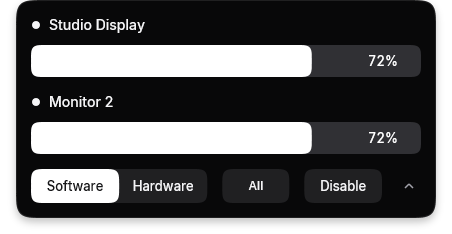
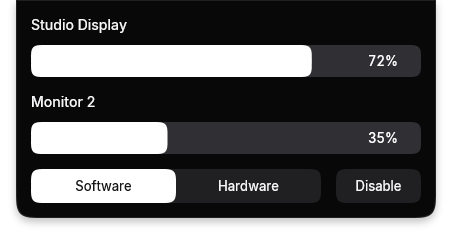
docs: update the panel preview controls and independent brightness behavior

diff --git a/docs/UI.md b/docs/UI.md
@@ -1,26 +1,27 @@
 # Native dynamic island
 
-The replacement UI uses WinAPI + Direct2D/DirectWrite + DirectComposition. It keeps `PopupState` and `PopupActions` as the boundary to the existing brightness controller. No physical-monitor API is called by the renderer, layout, animation, or pacing modules.
+The replacement UI uses WinAPI + Direct2D/DirectWrite + DirectComposition. It keeps `PopupState` and `PopupActions` as the boundary to the existing brightness controller. Each monitor has its own target. No physical-monitor API is called by the renderer, layout, animation, dismissal, or pacing modules.
 
 ## Modules and integration
 
 | Module | Responsibility |
 | --- | --- |
-| `ui/PopupModel.h` | Controller snapshot and callbacks; one shared target for the selected monitor group |
-| `ui/PopupView.*` | HWND, input/capture, stable monitor IDs, compact/expanded/closing states, throttle, DPI/top anchoring, graphics recovery |
+| `ui/PopupModel.h` | Per-monitor controller snapshot and callbacks with stable display IDs |
+| `ui/PopupView.*` | HWND, input/capture, stable monitor IDs, opening/visible/closing states, throttle, DPI/top anchoring, graphics recovery |
 | `ui/island/Layout.h` | DIP layout, five-row viewport, scroll bounds, hit rectangles, narrow-screen footer |
-| `ui/island/Geometry.h` | Superellipse corner sampling and matching contour hit test |
+| `ui/island/Geometry.h` | Superellipse lower corners, square top corners, and matching contour hit test |
 | `ui/island/Spring.h` | Analytical spring position/velocity integration and interruptible retargeting |
 | `ui/island/Fonts.*` | Private DirectWrite collection backed by immutable embedded resources |
 | `ui/island/Renderer.*` | D3D/DXGI buffers, D2D drawing/cached geometry/text/shadow, DComp alpha composition |
 | `ui/island/FrameClock.*` | Requested DXGI/DWM pacing; no controller or renderer state shared with its thread |
+| `ui/island/Dismissal.h` | Monotonic 3.5-second inactivity deadline |
 | `ui/island/Preferences.*` | Separate validated UI preference registry values |
 
-`App::UpdatePopupState` supplies snapshots. Existing callbacks apply brightness, selection, enabled state, and mode. The only additional callbacks report UI graphics failures and request the existing tray context menu. `App::Run` waits on messages and the optional frame-ready event through `MsgWaitForMultipleObjectsEx`; `FrameWaitHandle()` returns no handle while hidden or settled. Do not replace this with a permanent timer.
+`App::SyncPopup` supplies monitor snapshots with individual brightness values. Callbacks apply a target by stable display ID, enabled state, and mode; other callbacks report UI failures, show the tray menu, and identify the tray icon hit area. There is no group-selection callback. `App::Run` waits on messages and the optional frame-ready event through `MsgWaitForMultipleObjectsEx`; `FrameWaitHandle()` returns no handle while hidden or settled. Do not replace this with a permanent timer.
 
 The `.vcxproj` includes all modules and font resources. Link dependencies are declared in the native source files. The application no longer starts GDI+. COM initialization belongs to the renderer on the UI thread. Copy `Inter-LICENSE.txt` alongside the executable when distributing; the project does this after building.
 
-The HWND uses `WS_POPUP`, `WS_EX_TOPMOST`, `WS_EX_TOOLWINDOW`, `WS_EX_NOACTIVATE`, and `WS_EX_NOREDIRECTIONBITMAP`. The transparent area comes from a premultiplied BGRA composition surface, not `SetWindowRgn`. The pacing thread is stopped and joined before the renderer releases its frame-latency handle or swap chain.
+The HWND uses `WS_POPUP`, `WS_EX_TOPMOST`, `WS_EX_TOOLWINDOW`, `WS_EX_NOACTIVATE`, and `WS_EX_NOREDIRECTIONBITMAP`. The transparent area comes from a premultiplied BGRA composition surface, not `SetWindowRgn`. The pacing thread is stopped and joined before the renderer releases its frame-latency handle or swap chain. Raw mouse input is registered only while the panel is open; it observes button presses without `RIDEV_NOLEGACY`, hooks, focus changes, or input suppression. Registration is removed when closing.
 
 ## Dimensions and typography
 
@@ -28,9 +29,8 @@ All values below are DIP. The shell's top is exactly `rcMonitor.top`; the 16-DIP
 
 | Metric | Value |
 | --- | --- |
-| Compact shell | 344 × 64 |
-| Expanded shell width | 420, reduced to fit available screen width |
-| Expanded height | 64 + 77 × visible rows; two rows = 218, five = 449 |
+| Panel width | 420, reduced to fit available screen width |
+| Panel height | 64 + 77 × visible rows; two rows = 218, five = 449 |
 | Visible rows | At most 5; smaller available height further limits the viewport |
 | Outer padding | 15 on all sides |
 | Monitor label height | 20 |
@@ -38,14 +38,13 @@ All values below are DIP. The shell's top is exactly `rcMonitor.top`; the 16-DIP
 | Slider height | 32; value inset 10 horizontally / 8 vertically |
 | Between monitor rows | 15 |
 | Footer buttons | 34 high; 13-DIP text, 7-DIP vertical padding; width budget includes 15-DIP horizontal padding |
-| Narrow footer | Below 400 DIP available width: mode selector and actions on separate rows, 15 between rows |
-| Compact rail | 6 high with enlarged pointer hit area |
+| Narrow footer | Below 350 DIP available width: mode selector and actions on separate rows, 15 between rows |
 
-The expanded monitor names use Inter Medium 14, hardware status uses Inter Regular 12 with +0.1 DIP character spacing, buttons/percentages use Inter Medium 13, and the compact percentage uses Inter SemiBold 20. Text stays on floating-point DIP coordinates. Tabular figure typography is enabled. DirectWrite grayscale antialiasing is used for alpha surfaces: ClearType subpixel color fringes would not compose correctly over an unknown background.
+Monitor names use Inter Medium 14, hardware status uses Inter Regular 12 with +0.1 DIP character spacing, and buttons/percentages use Inter Medium 13. Text stays on floating-point DIP coordinates. Tabular figure typography is enabled. DirectWrite grayscale antialiasing is used for alpha surfaces: ClearType subpixel color fringes would not compose correctly over an unknown background.
 
 Fonts are embedded Inter 4.1 with a Segoe UI fallback. SF Pro is not included because [Apple's published font license](https://developer.apple.com/fonts/) does not authorize bundling it for this Windows interface. Font provenance and the redistribution license live in `src/resources/fonts/`.
 
-Native-renderer previews with synthetic data: [compact](../image/island-compact.png), [expanded dark](../image/island-dark.png), and [expanded light](../image/island-light.png).
+Native-renderer previews with synthetic independent targets: [dark](../image/island-dark.png) and [light](../image/island-light.png).
 
 ## Colors and material
 
@@ -68,22 +67,28 @@ The inner outline is 1 DIP. The shadow uses a cached Direct2D shadow effect. Sys
 
 ## Motion and scheduling
 
-The corner exponent is `n = 4.5`. Four local superellipse quadrants join straight edges with zero endpoint curvature; each quadrant uses 64 vector segments and Direct2D antialiasing. The shell radius morphs from half the compact height toward 14% of expanded height. Buttons and sliders use the same contour generator with a radius limited by their dimensions.
+The corner exponent is `n = 4.5`. The shell has a straight top edge and square upper corners. Two local superellipse quadrants form the lower corners, using 64 vector segments per quadrant and Direct2D antialiasing. The shell radius is 14% of its height, capped at 32 DIP. Controls use four rounded quadrants and a radius limited by their dimensions.
 
 | Spring | Stiffness | Damping | Mass |
 | --- | --- | --- | --- |
-| Size and expansion | 440 | 42 | 1 |
-| Opacity, mode, hover/press, number feedback | 980 | 63 | 1 |
+| Size on catalog/geometry changes | 440 | 42 | 1 |
+| Entrance/exit progress, mode, hover/press, number feedback | 980 | 63 | 1 |
 | External/keyboard brightness rail | 1540 | 79 | 1 |
 
-Targets preserve current position and velocity. Integration uses QPC delta time and an exact analytical solution, avoiding fixed-step dependence on refresh rate. Pointer drags track fractional position immediately; outgoing brightness is quantized to the controller's integer range. Content crossfades with a 6-DIP shift. Number changes use a small 1.5-DIP spring feedback while the target percentage updates immediately. System reduced-motion settings and the tray animation switch snap transitions to their targets.
+Targets preserve current position and velocity. Integration uses QPC delta time and an exact analytical solution, avoiding fixed-step dependence on refresh rate. The panel opens directly with all rows. A spring progress value drives a DirectComposition translation from `-(height + 16)` DIP to zero, top-center scale from 0.97 to 1, and opacity from zero to one during the first third of the travel. Exit follows the same path in reverse; reopening during exit continues from the current presentation. Input coordinates are transformed back through the same scale/translation, so hit testing follows what is visible. The composition visual is concealed before a hidden HWND is shown again, preventing an old-frame flash.
 
-The pacing thread waits for a request, the DXGI latency event, and `DwmFlush`, then signals the UI. Idle scheduling has no periodic animation timer. A one-shot 70-ms throttle timer exists only while brightness input is pending; release flushes the last target. Thus 100 rapid pointer updates in the regression test dispatch one latest value on the timer and one final value on release. DDC/CI stays asynchronous through the existing controller.
+Each row keeps its own slider and number-feedback springs by stable ID. Pointer drags track fractional position immediately; outgoing brightness is quantized to the controller's integer range. Number changes use a small 1.5-DIP spring feedback while the target percentage updates immediately. System reduced-motion settings and the tray animation switch snap transitions to their targets.
 
-The renderer keeps a maximum-sized surface during morphs and resizes buffers only when DPI or available height changes. Geometry, text layouts, and the shadow are cached. Morphs change most of the small surface, so rendering redraws that surface; steady states need no redraw at all rather than applying a permanent dirty-rectangle loop.
+The pacing thread waits for a request, the DXGI latency event, and `DwmFlush`, then signals the UI. There is no periodic animation timer. A 3.5-second dismissal timer uses a monotonic inactivity deadline: keyboard, pointer, wheel, and button input reset it; capture and the panel context menu suspend it. Monitor status synchronization does not reset the deadline. An outside click closes through the same spring animation and remains available to the foreground application. A click on the tray icon is handled by the normal toggle, avoiding a close/reopen race.
+
+A one-shot 70-ms throttle timer exists only while brightness input is pending; release flushes the last target. Pending values are stored per display, so a catalog/status update cannot overwrite another row's optimistic value. The regression test's 100 rapid pointer updates dispatch one latest value on the timer and one final value on release. DDC/CI remains on the controller's worker thread.
+
+The renderer keeps a maximum-sized surface during size changes and resizes buffers only when DPI or available height changes. Geometry, text layouts, and the shadow are cached. Size changes affect most of the small surface, so rendering redraws that surface; steady states need no redraw at all rather than applying a permanent dirty-rectangle loop.
 
 ## Validation and remaining limits
 
-The eight regression executables use fake monitor endpoints and synthetic UI state. Native rendering is exercised in light/dark themes, at 96/144 DPI, with five-row overflow and a narrow footer. Input tests cover capture cancellation, disappearing/reordered monitor IDs, reversal during morph/hide, foreground preservation, throttling, and idle frame suspension. Six repeated popup creation/destruction cycles show no growth in GDI/USER object counts. A local run measured 0.000 ms process CPU in each of three one-second idle samples; driver initialization can contribute CPU immediately after startup, so this is not a universal hardware guarantee.
+The eight regression executables use fake monitor endpoints and synthetic UI state. Native rendering is exercised in light/dark themes, at 96/144 DPI, with five-row overflow and a narrow footer. Input tests cover capture cancellation, disappearing/reordered monitor IDs, independent pending values, unavailable hardware rows, entrance/exit reversal, foreground preservation, throttling, idle suspension, outside-click dismissal, raw input cleanup, and the live 3.5-second timer. Six repeated popup creation/destruction cycles show no growth in GDI/USER object counts. A local run measured 0.000 ms process CPU in each of three one-second idle samples; driver initialization can contribute CPU immediately after startup, so this is not a universal hardware guarantee.
 
-Independent per-monitor brightness/readback requires a richer backend model and is deliberately outside this UI rewrite. Rendering percentages represent the group's requested value; hardware status/error feedback comes from the existing controller. Native tooltip text and an accessible window name expose names and focused actions, but a complete custom UI Automation provider is not implemented. Physical hot-plug, sleep/resume, firmware-specific DDC/CI behavior, and mixed-DPI rendering still require testing on real Windows 10/11 displays.
+The controller now stores targets by stable monitor ID and applies them independently. An unavailable hardware monitor is skipped and its target remains unchanged. Software overlay alpha is computed separately for each monitor; a 100-percent display removes only its own overlay. Targets survive catalog refresh/reorder, disconnection/reconnection, and application restart through the settings store. Both modes use the same saved per-monitor target; the former shared brightness remains only the default for a display without its own saved value. Percentages are requested targets, not continuously polled hardware readbacks.
+
+Native tooltip text and an accessible window name expose names and focused actions, but a complete custom UI Automation provider is not implemented. Physical hot-plug, sleep/resume, firmware-specific DDC/CI behavior, and mixed-DPI rendering still require testing on real Windows 10/11 displays.

diff --git a/README.md b/README.md
@@ -1,30 +1,32 @@
 # trenches
 
-A small Windows utility for dimming one display, a custom group, or every connected display.
+A small Windows utility with independent brightness controls for each connected display.
 
 ![trenches dynamic island](image/island-dark.png)
 
 ## Features
 
-- Per-display targeting with **All displays** and **Selected** scopes
+- Independent brightness per display, saved by stable display ID
 - **Software** mode with independent click-through overlays
 - **Hardware** mode using DDC/CI brightness control
 - Dynamic island attached to the top center of the primary display, opened from the tray or with `Ctrl+Alt+B`
-- Compact primary-display controls and an expanding monitor list with five visible rows and scrolling
-- Interruptible spring transitions, continuous corners, and per-pixel transparency through DirectComposition
+- Full monitor panel on opening, with five visible rows and scrolling
+- Spring entrance from the top display edge, square upper corners, continuous lower corners, and DirectComposition alpha
 - Automatic light/dark theme, optional translucency, and appearance preferences in the tray
-- Global pause/resume without losing the saved brightness value
+- Global pause/resume without losing individual brightness values
+- Animated dismissal on an outside click or after 3.5 seconds without interaction
 - Optional launch at Windows sign-in
 - Per-monitor DPI awareness v2, keyboard controls without foreground activation, and Windows High Contrast support
 - Single-instance behavior: launching trenches again opens the existing control panel
 
 Hardware mode is available only when a display exposes the DDC/CI brightness VCP feature. Explicitly unsupported displays are marked `No DDC/CI` and remain available in Software mode. Temporary detection or write failures are shown as `DDC/CI failed` with the Windows error code. The app retries temporary failures up to three times and checks displays again after resume or a display configuration change.
 
-Pausing Hardware mode sets the selected displays to 100%. Switching to Software mode or excluding a display restores the hardware brightness changed by the app to 100% before enabling an overlay. Exiting leaves the last hardware brightness in place; software overlays are removed.
+Pausing Hardware mode sets available displays to 100%. Switching to Software mode restores the hardware brightness changed by the app to 100% before enabling an overlay. Exiting leaves the last hardware brightness in place; software overlays are removed.
 
 Successful duplicate hardware writes are skipped until the monitor catalog is refreshed. Changes made through the monitor's own controls are not polled.
 
-The existing controller stores one brightness value for the selected group. Expanded sliders therefore show the same target for selected displays; unselected displays show a dash. Selecting a row toggles its membership, and dragging an unselected row selects that display. Compact brightness input targets the primary display. Opening or expanding the island alone does not change the selection. Percentages are optimistic requested values, not readbacks of each monitor's physical brightness.
+Each slider changes only its own display. Hardware rows without available DDC/CI control are disabled and show a dash; their saved target is left unchanged. Software dimming remains available for those displays. Percentages show requested values, not continuous readbacks of physical monitor brightness. Existing shared brightness settings are used as the initial default; the obsolete All/Group selection is no longer used by the application.
+
 
 Windows startup commands have a [260-character limit](https://learn.microsoft.com/en-us/windows/win32/setupapi/run-and-runonce-registry-keys). For a longer app path, trenches uses its short path when available; otherwise it reports that a shorter app path is needed.
 
@@ -34,17 +36,16 @@ Windows startup commands have a [260-character limit](https://learn.microsoft.co
 | --- | --- |
 | `Ctrl+Alt+B` | Open or close the island on the primary display |
 | Tray icon click | Open or close the island |
-| Island chevron / `Ctrl+Alt+E` | Expand or collapse |
 | `Ctrl+Alt+N` / `Ctrl+Alt+Shift+N` | Move between controls |
 | `Ctrl+Alt` + arrows | Adjust brightness or move within grouped choices |
 | `Ctrl+Alt+Page Up` / `Ctrl+Alt+Page Down` | Adjust brightness by 10 percentage points |
 | `Ctrl+Alt+Home` / `Ctrl+Alt+End` | Set minimum or maximum brightness |
 | `Ctrl+Alt+Enter` | Activate the highlighted control |
-| `Ctrl+Alt+Escape` | Collapse; close when already compact |
-| Mouse wheel | Scroll the expanded list; adjust primary brightness when compact |
+| `Ctrl+Alt+Escape` | Close with the exit animation |
+| Mouse wheel | Scroll the monitor list |
 | Tray right-click / island right-click | Open preferences and exit menu |
 
-The window does not activate the application or steal keyboard focus. Temporary navigation shortcuts are registered when opened with `Ctrl+Alt+B` and released when closing. Shortcuts already owned by another application remain unavailable. The island stays open until explicitly closed. On narrow DPI-scaled desktops the footer uses two rows; a short screen can display fewer than five monitors.
+The window does not activate the application or steal keyboard focus. Temporary navigation shortcuts are registered when opened with `Ctrl+Alt+B` and released when closing. Shortcuts already owned by another application remain unavailable. The panel slides back into the display edge when clicking outside or after 3.5 seconds without interaction. The deadline resets on input, pauses during capture and the panel context menu, and does not reset on monitor status updates. On narrow DPI-scaled desktops the footer uses two rows; a short screen can display fewer than five monitors.
 
 Inter Regular, Medium, and SemiBold are embedded in the executable and loaded into a private DirectWrite collection. Segoe UI is the fallback. Distribution includes `Inter-LICENSE.txt`; no font installation is needed. Translucency blends with the desktop through alpha; it does not apply Acrylic/Mica background blur.
 

diff --git a/tests/README.md b/tests/README.md
@@ -10,14 +10,14 @@ ctest --test-dir build/tests -C Release --output-on-failure
 
 The eight test executables cover:
 
-- `SettingsTests`: malformed registry strings, unsigned brightness bounds, settings round trips, access-denied errors, startup commands, saving only changed values, and validated UI preference storage.
+- `SettingsTests`: malformed registry strings, unsigned brightness bounds, settings round trips, access-denied errors, startup commands, saving only changed values, and validated UI preference storage, independent display target round trips, and malformed target pairs.
 - `HardwareTests`: partial physical-monitor failures, captured error codes, duplicate write caching, handle cleanup under allocation failure, and failed APIs that supply no error code.
-- `ControllerTests`: asynchronous enumeration, bounded recovery, unsupported displays, preserving a catalog after failure, hardware/software transitions, and cancellation between slow writes.
-- `IslandMathTests`: refresh-rate-independent springs, retargeting without velocity discontinuities, superellipse boundaries, five-row layout, scrolling, and narrow-screen footer layout.
+- `ControllerTests`: asynchronous enumeration, bounded recovery, unsupported displays, preserving a catalog after failure, hardware/software transitions, cancellation between slow writes, independent monitor targets, duplicate-write avoidance on unchanged displays, and unavailable hardware targets.
+- `IslandMathTests`: refresh-rate-independent springs, retargeting without velocity discontinuities, superellipse boundaries, five-row layout, scrolling, narrow-screen footer layout, square top corners, the screen-edge presentation transform, and the exact 3.5-second idle deadline.
 - `FontTests`: private embedded Inter collection, real weight matching, and missing-resource fallback.
 - `RendererTests`: the production Direct2D/DirectComposition path, actual embedded fonts, light/dark modes, five-row scrolling, hardware status labels, narrow-screen layout, and DPI resizing.
-- `PopupTests`: pending brightness across state synchronization, commit ordering, exact top anchoring, DPI sizing, capture loss, cancelled drags, throttle dispatches, unplug cancellation, stable monitor identity after reorder, input during morphs, interrupted animations, foreground preservation, temporary shortcut cleanup, idle scheduling/CPU measurements, and GDI/USER resource cleanup over repeated creation.
-- `OverlayTests`: UI-thread ownership, opacity changes without moves or repaints, geometry changes, selection changes, and window cleanup.
+- `PopupTests`: pending brightness across state synchronization, commit ordering, exact top anchoring, DPI sizing, capture loss, cancelled drags, throttle dispatches, unplug cancellation, stable monitor identity after reorder, independent pending row targets, unavailable hardware rows, interrupted entrance/exit animations, foreground preservation, temporary shortcut cleanup, idle scheduling/CPU measurements, outside-click dismissal, raw mouse registration cleanup, the live 3.5-second dismissal timer, and GDI/USER resource cleanup over repeated creation.
+- `OverlayTests`: UI-thread ownership, opacity changes without moves or repaints, geometry changes, selection changes, independent overlay alpha, removal of only the 100-percent display overlay, and window cleanup.
 
 Monitor I/O tests supply fake DXVA2 endpoints. Overlay and renderer tests create windows outside the visible desktop. Popup tests briefly show a synthetic island and use callbacks without monitor I/O. Settings tests redirect their own process's HKCU to a disposable subtree, restore its test ACL, and delete the subtree on exit. They do not use the application's settings or real monitor brightness. Running SettingsTests needs permission to create its temporary HKCU subtree.
 
